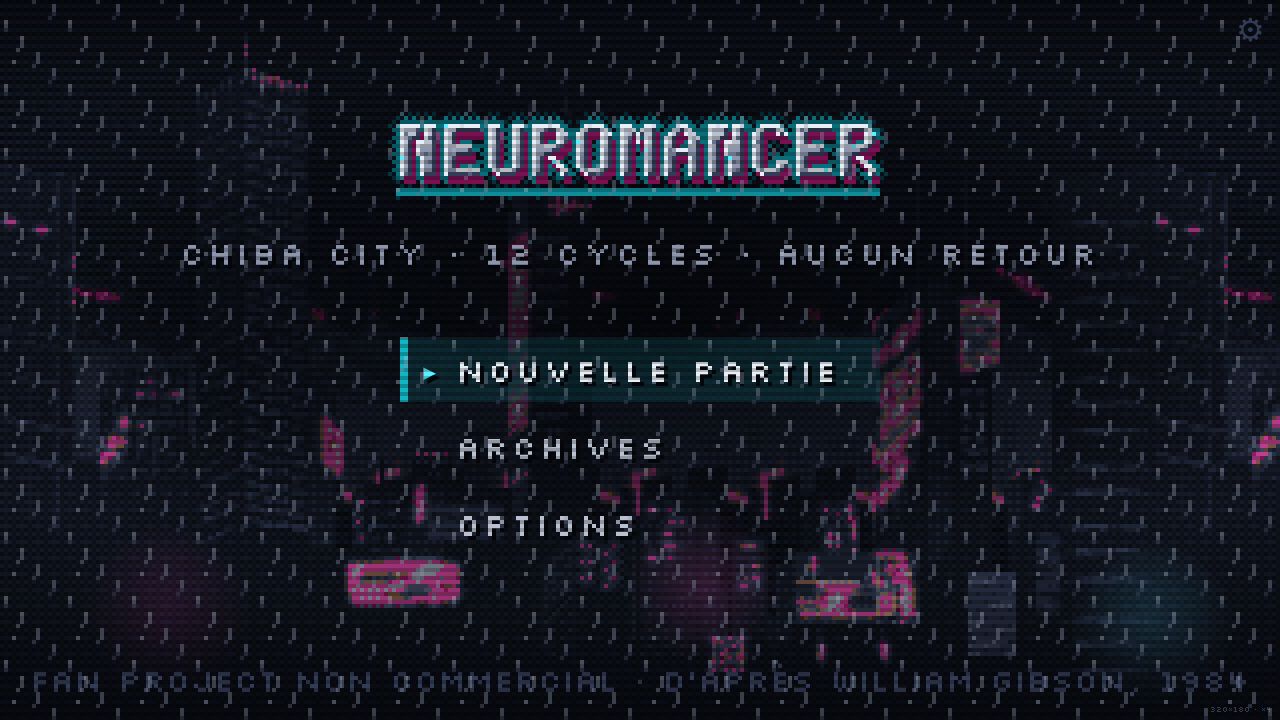
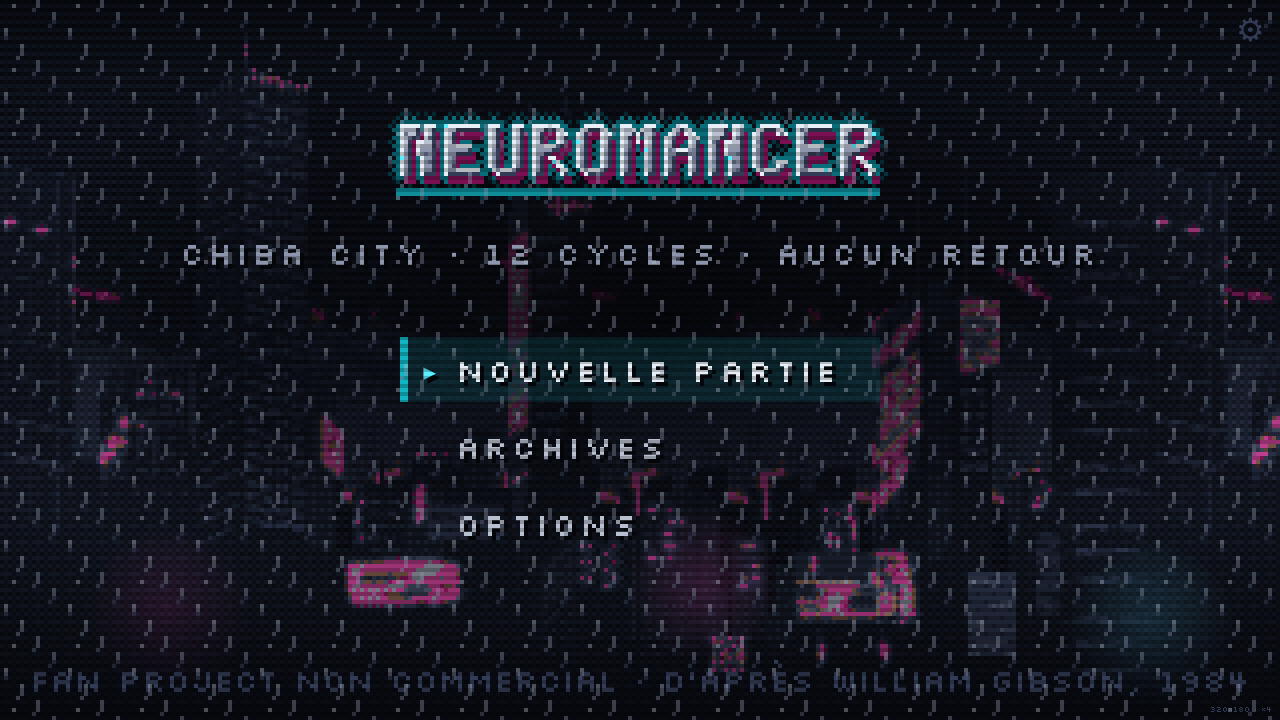
La pluie tombe enfin sans ressauter
Elle derivait de (-6, +16) pixels par cycle. 16 est bien la hauteur de la tuile,
donc la chute bouclait proprement ; 6 n'est pas sa largeur, donc le motif
RESSAUTAIT de six pixels sur le cote toutes les 0,55 s. Et `steps(16)` sur six
pixels posait chaque image sur un tiers de pixel, que `pixelated` ne rattrape
pas : la pluie etait saccadee ET floue.

Deux animations, une par axe, chacune sur une tuile entiere en seize pas d'un
pixel. C'est le RAPPORT DES DUREES qui fait la pente — 0,55 s pour la chute,
trois fois plus pour la derive — soit exactement le 1 pour 3 dessine dans
`fx.lua`. Les deux cycles se referment ensemble : plus aucun saut.

`node tools/pluie.mjs` releve la position de fond a chaque trame et refuse une
image posee entre deux pixels, un pas de plus d'un pixel, ou une pente qui
s'ecarte du dessin. Une capture d'ecran ne distingue pas « ca bouge » de « ca
bouge bien ». Verifie contre l'ancienne regle reintroduite : il y voit dix sauts
de 10,375 px en six secondes et 161 images sur des tiers de pixel.

Apres : 0px×298 1px×58 en x, 0px×183 1px×172 en y, pente 1 pour 3,00.

typecheck · 87 tests · validate:assets · clavier · vitrine · pluie.

Claude-Session: https://claude.ai/code/session_01NLnRsb5JomfCPoSu8MZofS

diff --git a/src/styles.css b/src/styles.css
@@ -1129,6 +1129,19 @@ body {
  * — `steps(16)` et non une interpolation continue, sinon le navigateur la
  * rendrait entre deux pixels et la floutterait malgre `pixelated`.
  *
+ * DEUX animations, une par axe, et ce n'est pas un rafinement : une pluie qui
+ * penche se deplace de 1 pixel de cote pour 3 pixels de chute (c'est la pente
+ * dessinee dans `fx.lua`, `x0 - floor(k / 3)`). En une seule animation, il
+ * fallait donc aller de 0 a (-6, +16) sur un cycle : 16 est bien la hauteur de
+ * la tuile, mais 6 n'est pas sa largeur, et le motif RESSAUTAIT de six pixels
+ * sur le cote a chaque tour — la saccade qu'on voyait. Pire, `steps(16)` sur 6
+ * pixels pose chaque image sur un tiers de pixel.
+ *
+ * Chaque axe boucle donc sur une tuile entiere (16 pixels, 16 pas d'un pixel),
+ * et c'est le RAPPORT DES DUREES qui fait la pente : 0.55s pour la chute,
+ * trois fois plus pour la derive. Les deux cycles se referment ensemble, et il
+ * n'y a plus aucun saut nulle part.
+ *
  * Elle est sous le HUD et sous la boite de dialogue : il pleut sur la rue, pas
  * sur l'interface. */
 .pluie {
@@ -1141,20 +1154,32 @@ body {
   background-size: calc(16 * var(--px)) calc(16 * var(--px));
   background-repeat: repeat;
   image-rendering: pixelated;
-  animation: pluie 0.55s steps(16) infinite;
+  animation:
+    pluie-chute 0.55s steps(16) infinite,
+    pluie-derive 1.65s steps(16) infinite;
 }
-@keyframes pluie {
+@keyframes pluie-chute {
   from {
-    background-position: 0 0;
+    background-position-y: 0;
   }
   to {
-    background-position: calc(-6 * var(--px)) calc(16 * var(--px));
+    background-position-y: calc(16 * var(--px));
+  }
+}
+@keyframes pluie-derive {
+  from {
+    background-position-x: 0;
+  }
+  to {
+    background-position-x: calc(-16 * var(--px));
   }
 }
 /* La bascule d'accessibilite coupe aussi la pluie : c'est un motif fin en
- * mouvement permanent, exactement ce que la bascule existe pour retirer. */
+ * mouvement permanent, exactement ce que la bascule existe pour retirer.
+ * Le rapport de trois entre les deux durees est la pente : le perdre ici
+ * ferait tomber la pluie de travers des que les scanlines sont coupees. */
 .viewport:not(.scanlines) .pluie {
-  animation-duration: 1.6s;
+  animation-duration: 1.6s, 4.8s;
   opacity: 0.32;
 }
 @media (prefers-reduced-motion: reduce) {

diff --git a/CLAUDE.md b/CLAUDE.md
@@ -169,6 +169,7 @@ node tools/acte3.mjs captures      # joue l'acte III jusqu'a une fin
 node tools/plonger.mjs captures    # prologue + branchement + plongee au hasard
 node tools/vitrine.mjs             # refait les captures du README
 node tools/clavier.mjs             # joue le prologue SANS UN SEUL CLIC
+node tools/pluie.mjs               # releve la pluie trame par trame
 ```
 
 ### Outillage — capture d'écran
@@ -786,6 +787,17 @@ la profondeur sans imposer une seule technique à tout le jeu.
   trois en donnaient un mur de devantures. Le cumul de la dérive reste en flottant et n'est
   arrondi qu'à la pose : arrondir à chaque image figerait tout plan dont la dérive est inférieure
   à un pixel par trame, c'est-à-dire tous.
+- **Une animation de motif doit boucler sur la TUILE, sur chaque axe.** La pluie dérivait de
+  `(-6, +16)` par cycle : 16 est bien la hauteur de la tuile, 6 n'est pas sa largeur, et le motif
+  ressautait de six pixels sur le côté toutes les 0,55 s. Elle se fait donc en **deux animations,
+  une par axe**, chacune sur seize pixels et seize pas — c'est le *rapport des durées* qui donne
+  la pente (1 pour 3, celle dessinée dans `fx.lua`), jamais un déplacement oblique en un seul
+  `@keyframes`. Accessoirement, `steps(16)` sur six pixels posait chaque image sur un tiers de
+  pixel, ce que `pixelated` ne rattrape pas.
+- **`node tools/pluie.mjs` relève la position de fond à chaque trame** et refuse une image posée
+  entre deux pixels, un pas supérieur à un pixel, et une pente qui s'écarte du dessin. Une capture
+  d'écran ne distingue pas « ça bouge » de « ça bouge bien » : c'est tout l'intérêt. Vérifié contre
+  l'ancienne règle réintroduite — il y voit dix sauts de 10,375 px en six secondes.
 - `npm run validate:assets` refuse un `plans[].image` absent de `public/assets/parallax/` et un
   décor qui n'a ni plans ni tilemap du même nom. Un plan renommé est pire qu'une tuile renommée :
   la scène reste noire, et rien ne distingue cette panne d'une scène volontairement sans décor.
